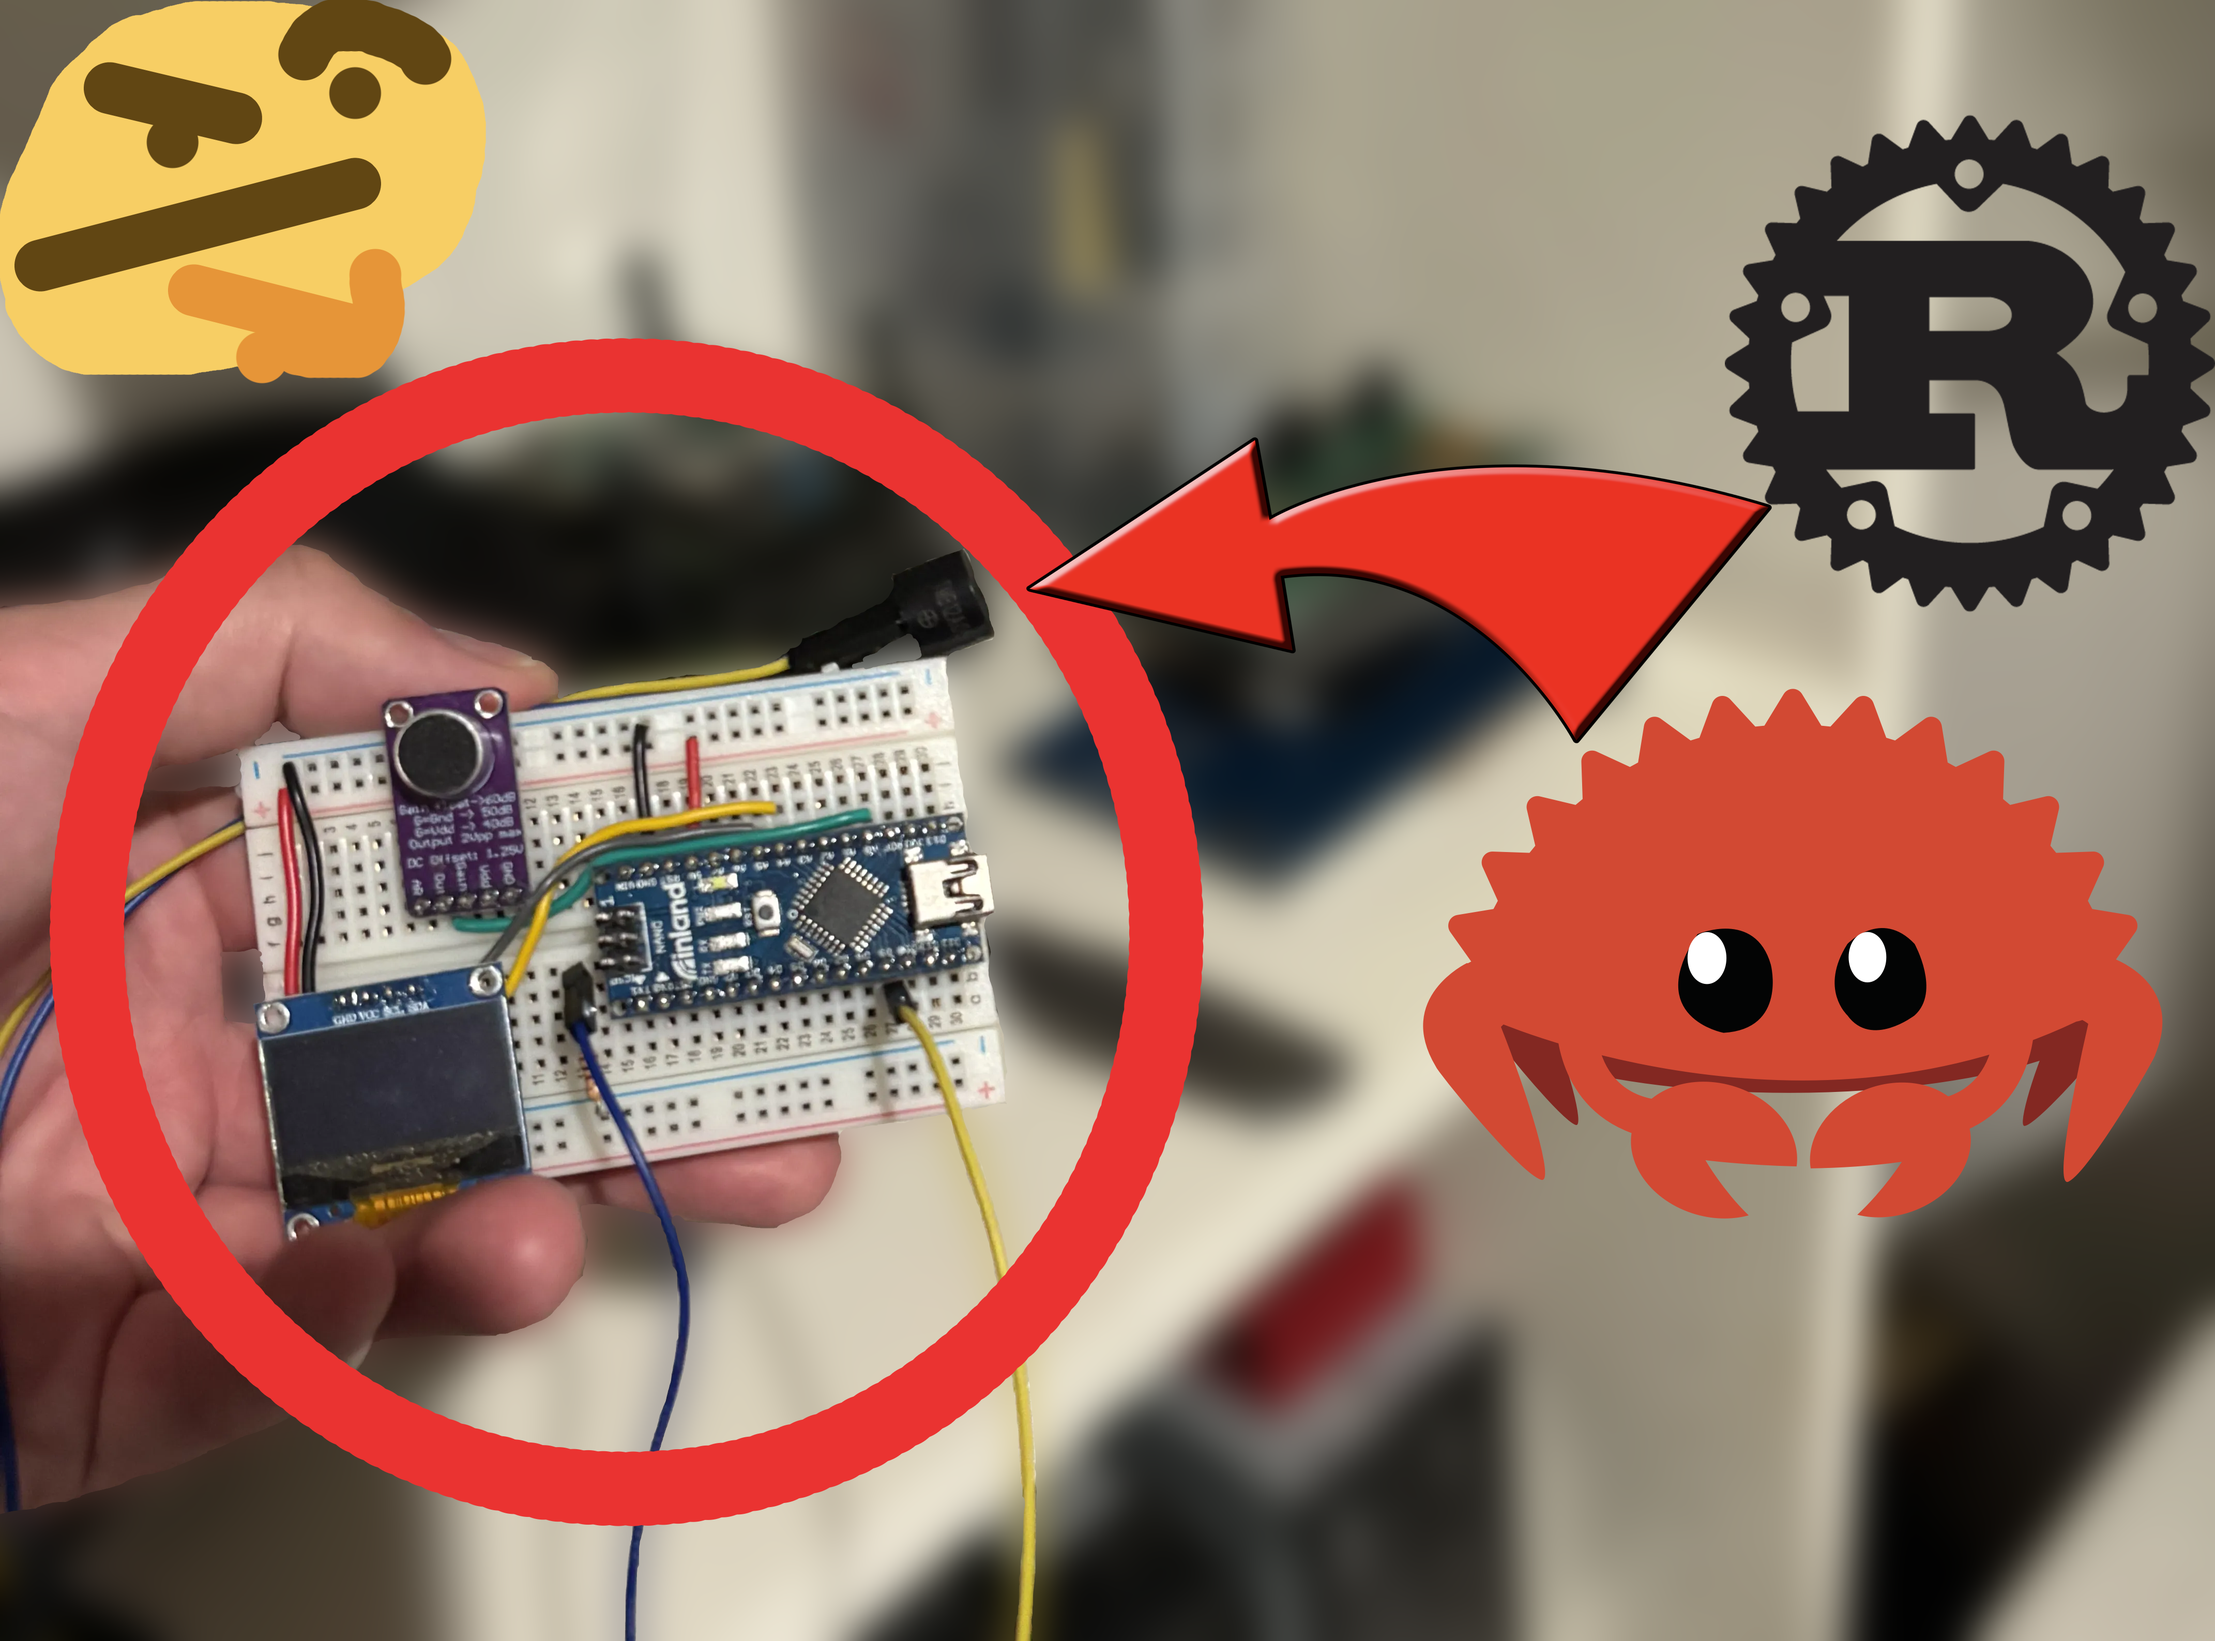
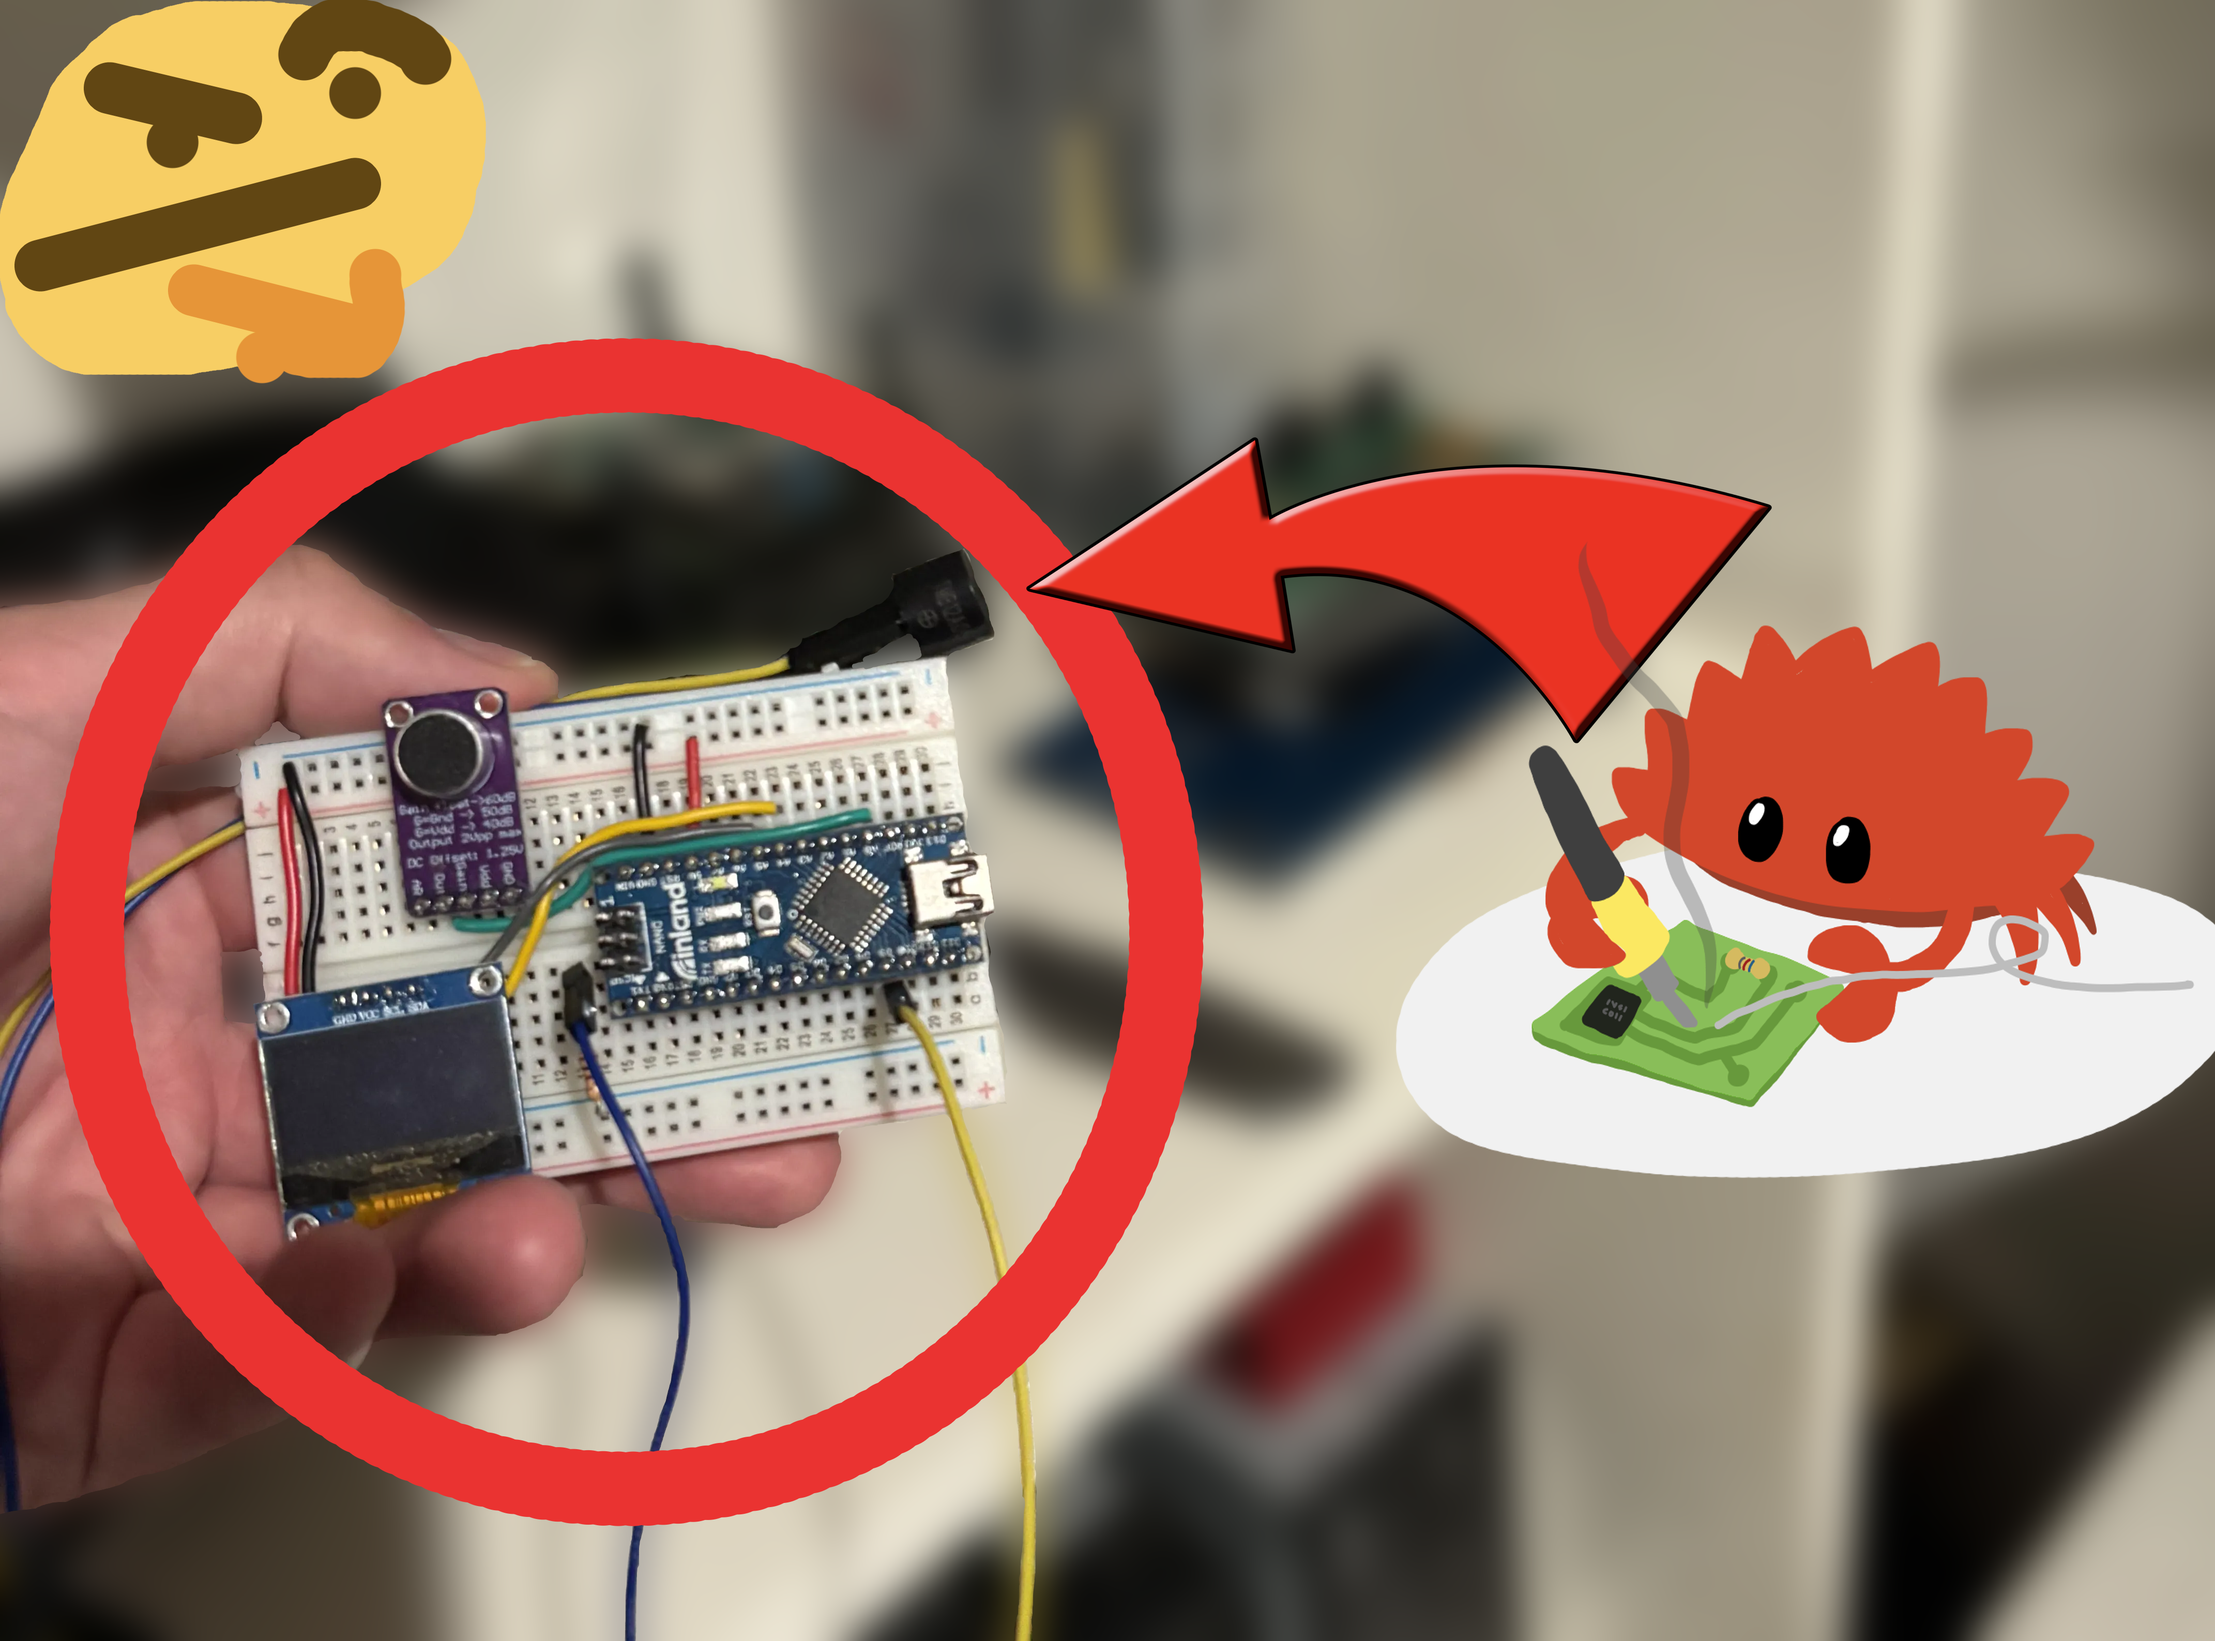
Update Thumbnail + Provide Attribution

Changed region(s): [[0.6209, 0.0624, 1.0, 0.7486]]

diff --git a/src/blog/0009/index.md b/src/blog/0009/index.md
@@ -5,13 +5,13 @@ date: "2025-07-31"
 author: Alex Westerman
 slug: '0009'
 postThumbnail: "blog_thumb_009.webp"
-postThumbnailAlt: "I put Rust in What??????"
+postThumbnailAlt: "I put Rust in What?????? Includes art from Barnaby Walters (waterpigs.co.uk)"
 keywords: ",Rust, embedded systems, arduino, project, github, c, zig, go"
 ---
 
 ```image
 src="./blog_thumb_009.webp", 1071x794
-I put Rust in what???????
+I put Rust in what??????? Includes art from Barnaby Walters (waterpigs.co.uk)
 ```
 
 In the final post of this miniseries, it is now time to talk about [Rust](https://rust-lang.org) and its use in embedded projects like this one. If you don't already use it, you might know someone who won't shut up about how good it is; I'd like to think I'm not as annoying but here I am writing an entire blog post about embedded Rust usage. Overall, the focus of this post is centered around thinking about embedded programming and how Rust fixes or changes common footguns that usually exist in C/C++. There will be some tangents related to AVR and the Arduino platform since there are interesting "gotchas" that have to be accounted for when working on architectures like those. Some parts of this piece will be a bit opinionated, but I will try my best to make clear when I try to make subjective claims.
